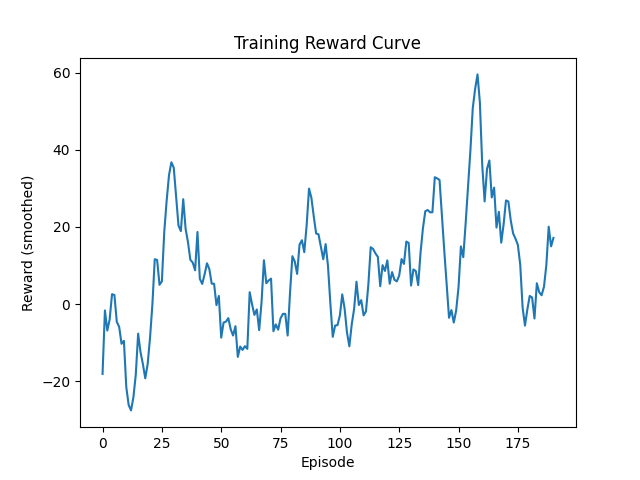
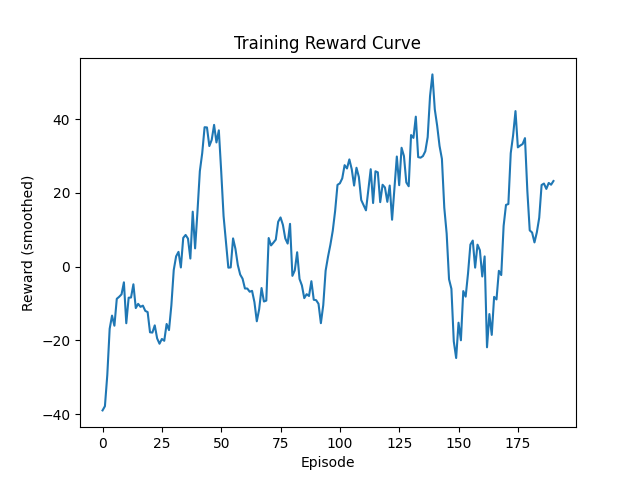
added trained agent evaluation and comparison results

diff --git a/compare_agents.py b/compare_agents.py
@@ -1,0 +1,35 @@
+from agent import get_action as rule_agent
+from trained_agent import get_action as trained_agent
+from env import CloudEnv
+import random
+
+def random_agent(state):
+    return random.choice([0,1,2])
+
+def run_episode(policy):
+    env = CloudEnv("medium")
+    state = env.reset()
+    total_reward = 0
+
+    while True:
+        action = policy(state)
+        state, reward, done, _ = env.step(action)
+        total_reward += reward
+
+        if done:
+            break
+
+    return total_reward
+
+
+if __name__ == "__main__":
+
+    print("\n=== Comparison ===")
+
+    r1 = run_episode(random_agent)
+    r2 = run_episode(rule_agent)
+    r3 = run_episode(trained_agent)
+
+    print(f"Random Agent  : {r1:.2f}")
+    print(f"Rule Agent    : {r2:.2f}")
+    print(f"Trained Agent : {r3:.2f}")

diff --git a/trained_agent.py b/trained_agent.py
@@ -1,0 +1,35 @@
+import pickle
+from env import CloudEnv
+
+# Load trained Q-table
+with open("q_table.pkl", "rb") as f:
+    Q = pickle.load(f)
+
+def discretize_cpu(cpu):
+    return int(cpu // 10)
+
+def get_action(state):
+    key = (discretize_cpu(state.cpu), state.servers)
+
+    if key not in Q:
+        return 2  # default = do nothing
+
+    return Q[key].index(max(Q[key]))
+
+
+# Test run
+if __name__ == "__main__":
+    env = CloudEnv("medium")
+    state = env.reset()
+
+    total_reward = 0
+
+    while True:
+        action = get_action(state)
+        state, reward, done, _ = env.step(action)
+        total_reward += reward
+
+        if done:
+            break
+
+    print("Total Reward:", total_reward)

diff --git a/train.py b/train.py
@@ -107,3 +107,10 @@ def plot_rewards(rewards):
 if __name__ == "__main__":
     rewards = train(episodes=200)
     plot_rewards(rewards)
+
+import pickle
+
+with open("q_table.pkl","wb") as f:
+    pickle.dump(Q,f)
+
+print("Q-table saved!")

diff --git a/README.md b/README.md
@@ -110,6 +110,22 @@ Random action selection
 
 ---
 
+## 📊 Results
+
+### Agent Performance Comparison
+
+| Agent        | Score |
+|-------------|------|
+| Random       | -4.46 |
+| Rule-Based   | 3.98 |
+| Trained RL   | 71.42 |
+
+👉 The trained RL agent significantly outperforms both random and rule-based agents, demonstrating successful learning and adaptation.
+
+### 📈 Training Reward Curve
+
+![Reward Curve](reward_curve.png)
+
 ## Observations
 
 - Easy → both agents perform similarly  
@@ -120,11 +136,22 @@ This demonstrates that the environment is **non-trivial and realistic**
 
 ---
 
-##  Key Insight
+## 💡 Key Insight
 
-> The goal is not to hardcode intelligence, but to create an environment where intelligent behavior can emerge and be evaluated.
+The RL-trained agent learns to dynamically balance:
+- Performance (CPU utilization)
+- Cost (number of servers)
+- Stability (smooth scaling)
 
+Unlike static rule-based systems, it adapts to changing demand and achieves significantly higher rewards.
 ---
+
+## 🔗 Important Links
+
+- 🌐 Hugging Face Space: https://huggingface.co/spaces/anmol1620/cloud-env-openenv
+- 📓 Colab Notebook: [Add Link]
+- 🎥 Demo Video / Blog: [Add Link]
+- 💻 GitHub Repo: https://github.com/Anmol-rajput20/cloud-env-openenv
 
 ## Setup
 
